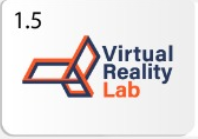
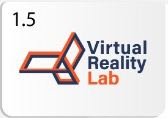
first commit

diff --git a/resources/views/place-details.blade.php b/resources/views/place-details.blade.php
@@ -13,7 +13,7 @@
             <div class="row pl-5">
                 <div class="col-md-12 pl-md-5 ml-md-5 mt-5 d-flex align-items-center" >
                     <div class="d-inline-block" style="margin-right: -10px">
-                        <img src="images/components/vr.png" alt="" style="height: 145px">
+                        <img src="images/components/vr.png" alt="" style="height: 140px">
                     </div>
                     <div class="place-description p-3" style="width: 60%">
                         <h2>Auditorium 1.5</h2>
